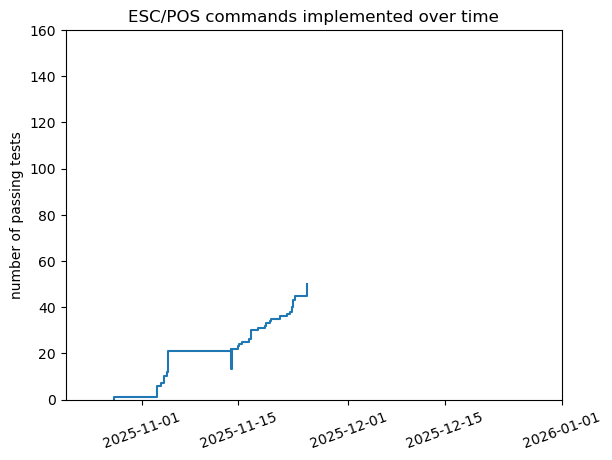
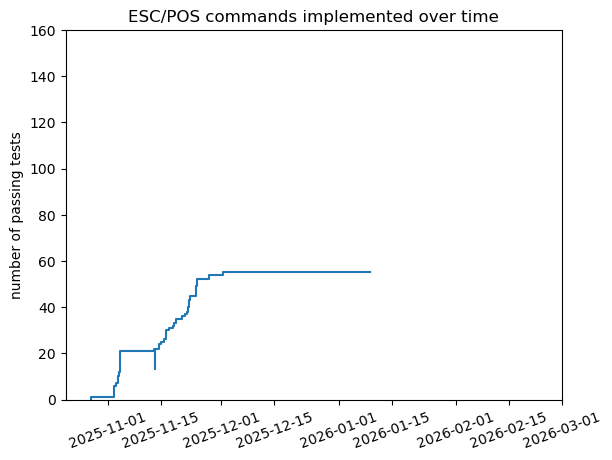
Update progress plot

diff --git a/scripts/plot_progress.py b/scripts/plot_progress.py
@@ -18,7 +18,7 @@ with open(sys.argv[1]) as csvfile:
 fig, ax = plt.subplots()
 ax.step(x, y)
 ax.set_ylim([0, 160])
-ax.set_xlim([datetime.fromisoformat('2025-10-21:00:00Z'), datetime.fromisoformat('2026-01-01T00:00:00Z')])
+ax.set_xlim([datetime.fromisoformat('2025-10-21:00:00Z'), datetime.fromisoformat('2026-03-01T00:00:00Z')])
 ax.set_ylabel('number of passing tests')
 plt.title('ESC/POS commands implemented over time')
 plt.xticks(rotation=20)
